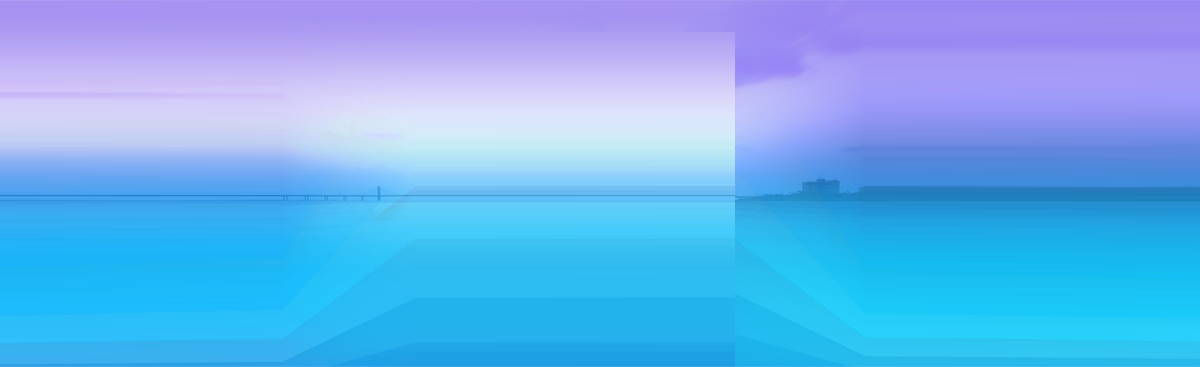
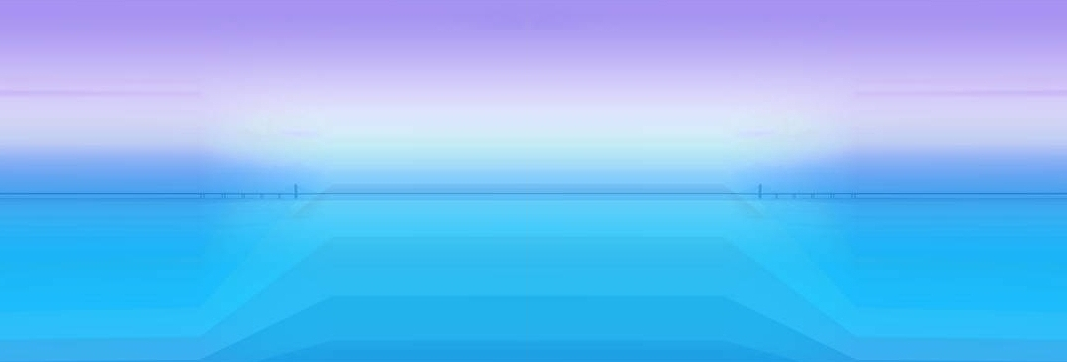
add hero background image

diff --git a/css/custom.css b/css/custom.css
@@ -7,6 +7,10 @@
 .hero.container {
     padding-bottom: 20px;
     /* čia keičia tik šitam custom, nes layout'e yra bendras visiems */
+    background-image: url(../img/background.jpg);
+    background-size: cover;
+    background-position: center bottom;
+
 }
 
 .hero > .row-short {
